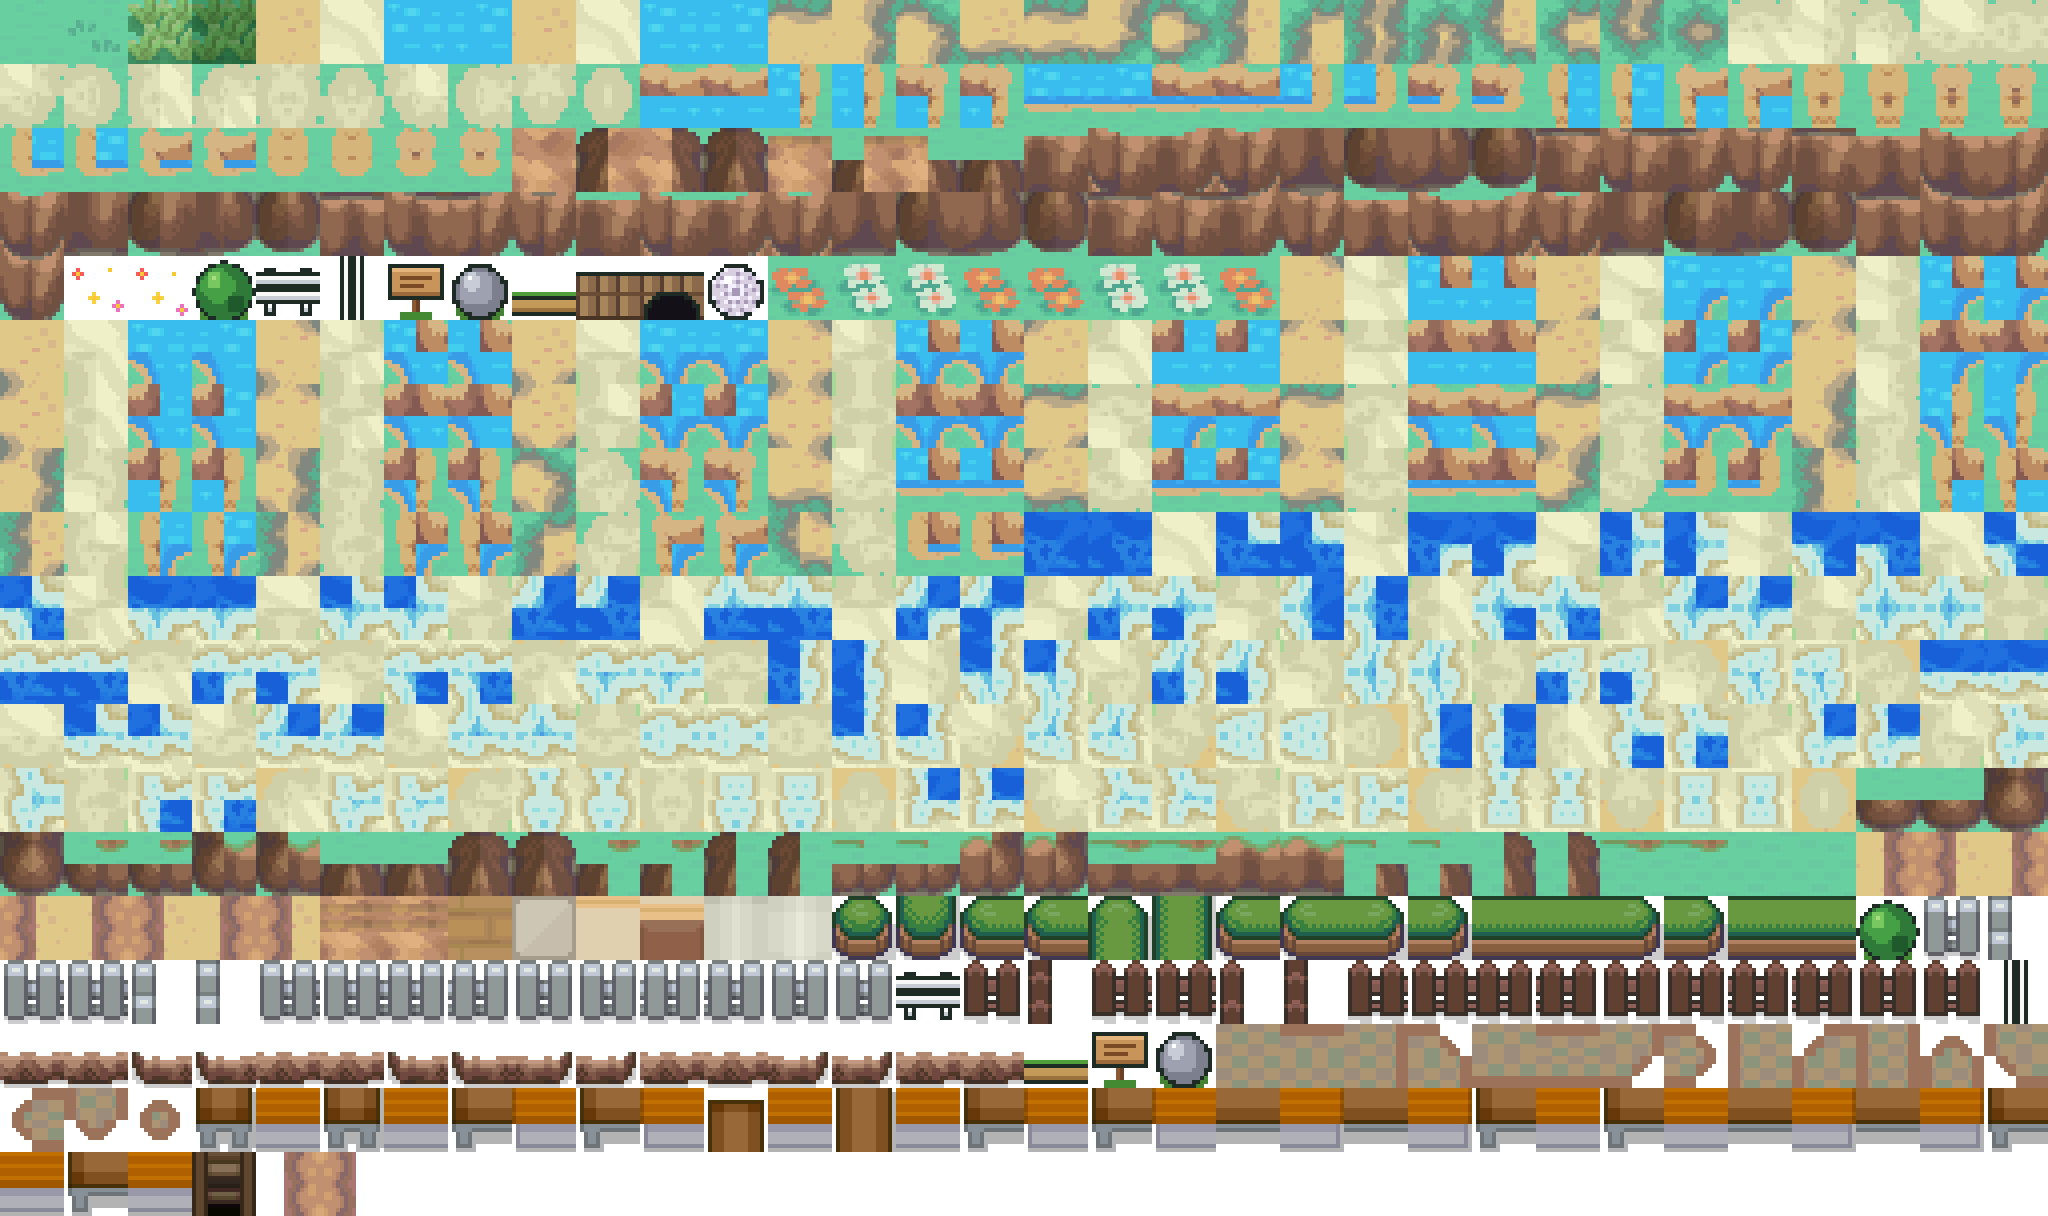
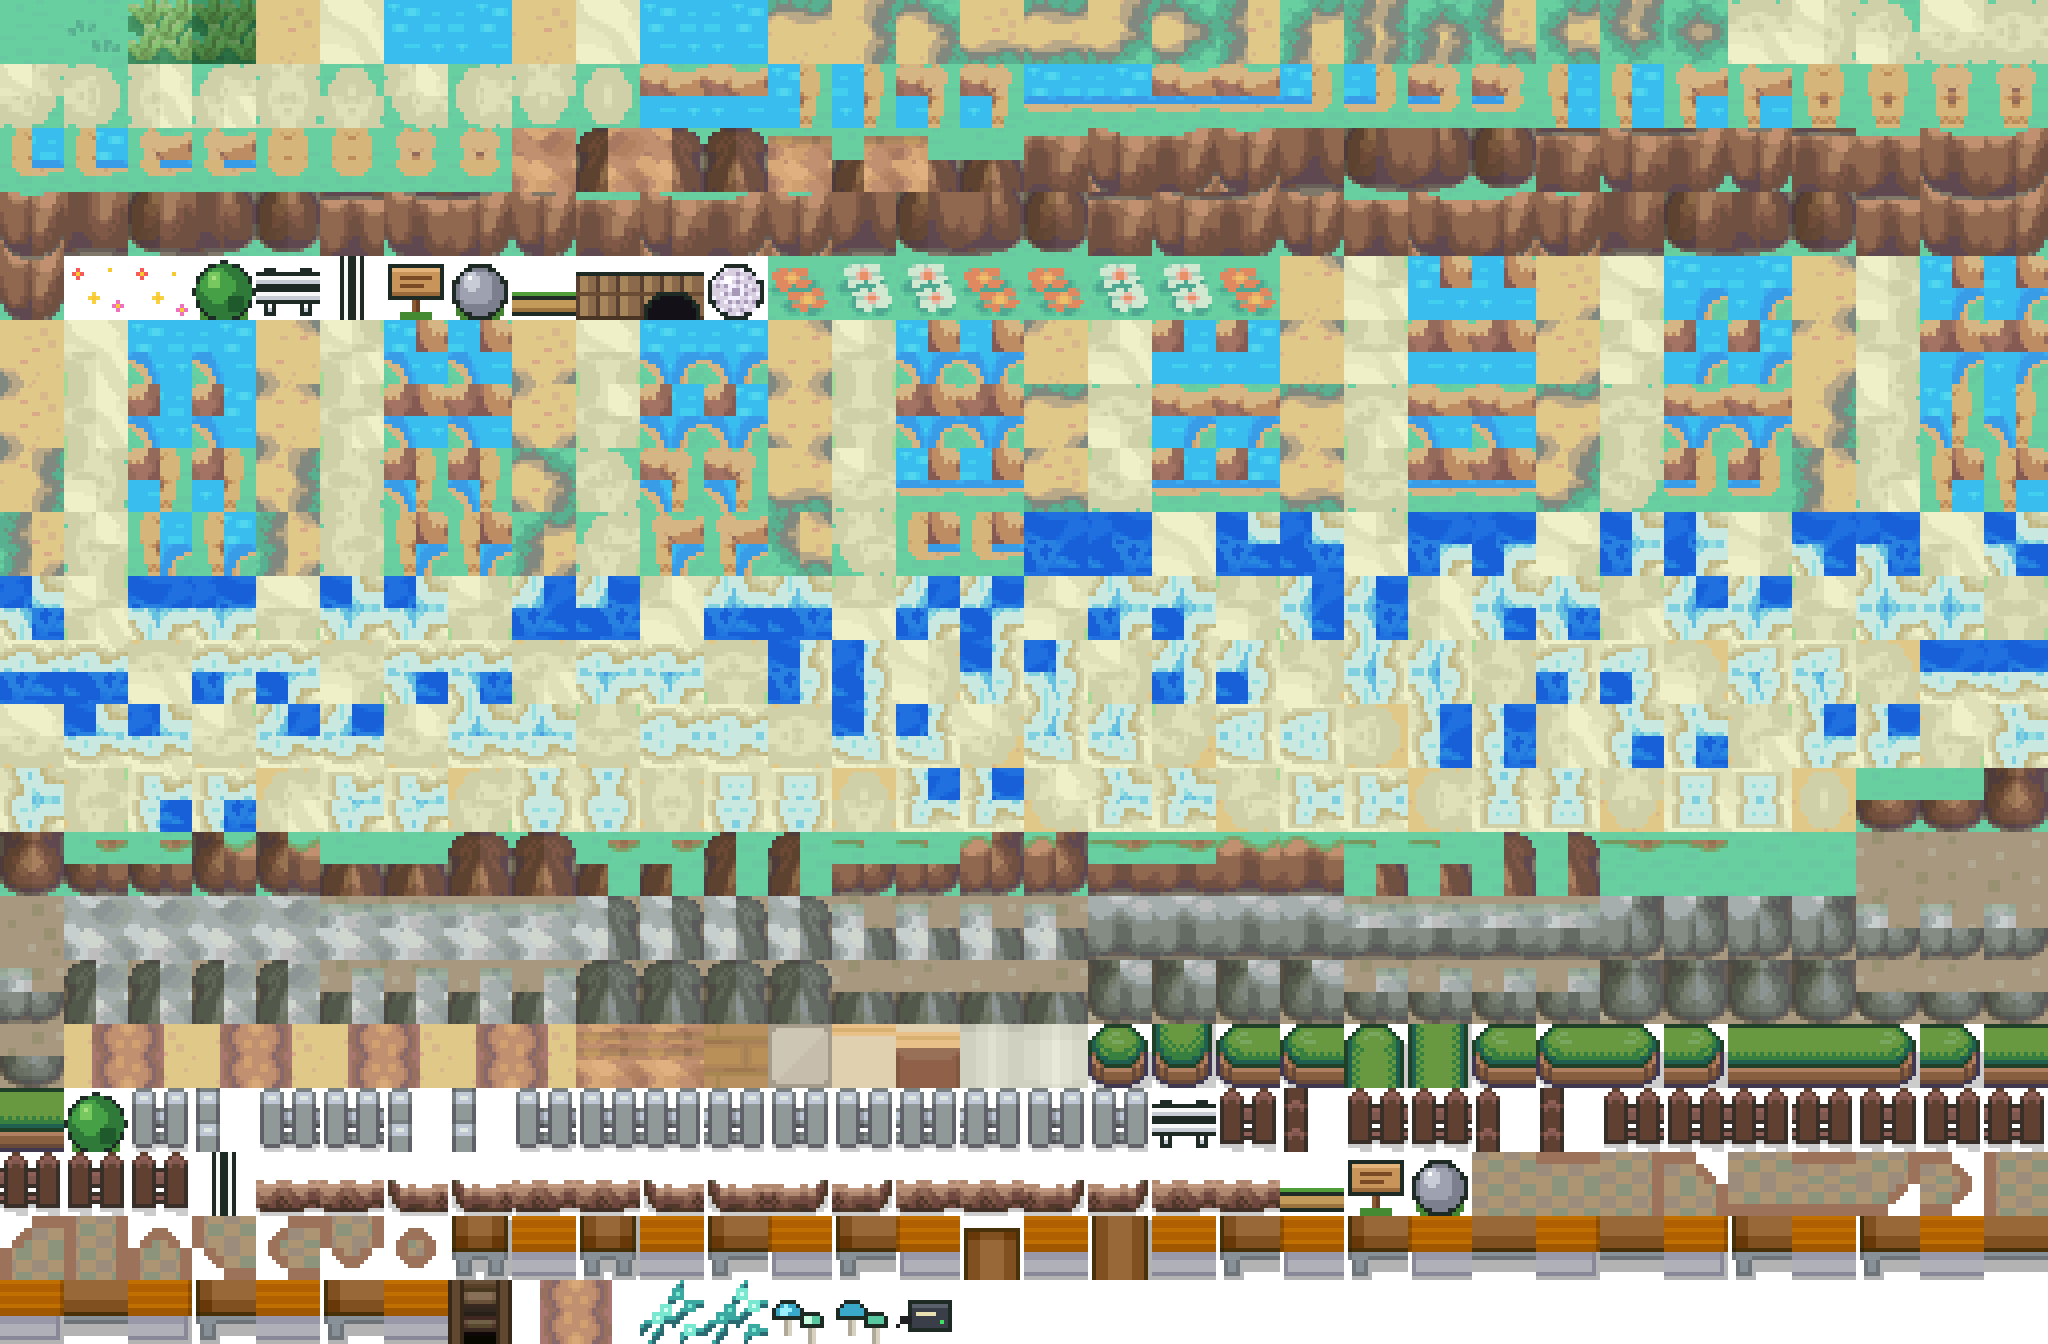
V2: cuevas con suelo de tierra y paredes de roca gris con relieve
Claude-Session: https://claude.ai/code/session_018v1fAZrQHSEnPWssP3zxe4

diff --git a/src/game/scenes/overworld.ts b/src/game/scenes/overworld.ts
@@ -481,6 +481,13 @@ export class Overworld implements Scene {
         else if (tileAt(this.map, x + 1, y).startsWith("camino")) t = "lateral_o";
       }
       if (V2 && t === "escalon" && [x - 1, x + 1].some((xx) => tileAt(this.map, xx, y) === "acantilado")) t = "escalon_cesped";
+      // V2: paredes de cueva con relieve: la variante dice qué lados dan a suelo (no a otra pared)
+      if (V2 && t === "pared_cueva") {
+        const pared = (xx: number, yy: number) => xx < 0 || yy < 0 || xx >= this.map.w || yy >= this.map.h || tileAt(this.map, xx, yy) === "pared_cueva";
+        const m = (pared(x, y - 1) ? 0 : 1) | (pared(x + 1, y) ? 0 : 2) | (pared(x, y + 1) ? 0 : 4) | (pared(x - 1, y) ? 0 : 8);
+        const i = TERR.index[`pared_cueva~${m}#${(x % 2) + (y % 2) * 2}`];
+        if (i !== undefined) { g.terr(i, x * 16 - cx, y * 16 - cy); continue; }
+      }
       const vec = this.vecinos(x, y, t);
       g.tile(t, x * 16 - cx, y * 16 - cy, x, y, suelo, vec, this.map.env, t === "acantilado" || t === "cueva_entrada" ? 0 : esquinas(this.map, x, y));
       // V2: el canto de una terraza de montaña que cae al río

diff --git a/tools/art/tileset_v2.py b/tools/art/tileset_v2.py
@@ -118,7 +118,7 @@ def a_cesped_v2(t):
     o[verde, :3] = (f[verde] - 8).clip(0, 255).astype(np.uint8)
     return o
 
-def relieve(h, r, c0, mask, cesped=False):
+def relieve(h, r, c0, mask, cesped=False, fondo=None):
     """Casilla de una plantilla de relieve de 4×4 (filas r..r+3, columnas c0..c0+3): borde superior en la
     mitad baja de la fila r, laterales en r+1..r+2 y la cara en r+3. mask: 1 N, 2 E, 4 S, 8 O distintos."""
     n, e, s_, w = mask & 1, mask & 2, mask & 4, mask & 8
@@ -132,7 +132,7 @@ def relieve(h, r, c0, mask, cesped=False):
             src = c16(h, x, y)
             o[qy * 8:qy * 8 + 8, qx * 8:qx * 8 + 8] = src[qy * 8:qy * 8 + 8, qx * 8:qx * 8 + 8]
     o = a_cesped_v2(o)
-    return sobre(HIERBA, o)
+    return sobre(HIERBA if fondo is None else fondo, o)
 
 def pared(y, e, w, alt):
     """Casilla de pared de la montaña (16 px desde la fila y de la lámina terreno2, columnas 0-3)."""
@@ -352,6 +352,12 @@ def main():
                 pon(f"monte_cara2_{e}{w}", sobre(HIERBA, pared(8854, e, w, q % 2)), q)
                 pon(f"monte_cara1_{e}{w}", sobre(HIERBA, pared(8808, e, w, q % 2)), q)
     pon("monte_cueva", sobre(HIERBA, pared(8854, 0, 0, 0)))
+    # cuevas: suelo de tierra de cueva (bloque 2×2 de las filas 113-114, columnas 4-5) y paredes de roca gris
+    # con relieve (plantilla de las filas 378-381): «pared_cueva~m», m = lados que dan a suelo (1 N, 2 E, 4 S, 8 O)
+    suelo_c = [t16(T2, 113 + q // 2, 4 + q % 2) for q in range(4)]
+    for q in range(4): pon("suelo_cueva", suelo_c[q], q)
+    for m in range(16):
+        for q in range(4): pon(f"pared_cueva~{m}", relieve(T2, 378, 0, m, fondo=suelo_c[q]), q)
     # laterales de las terrazas (anillo de borde de meseta, filas 545-546): el canto de la terraza que cae al
     # terreno de al lado; «lateral_e» con la terraza al oeste (canto a la derecha) y «lateral_o» al revés
     tierra = t16(EXT, 1, 1)
@@ -392,6 +398,16 @@ def main():
         objetos[f"obj:mostrador~{k}"] = x4(pieza_lineal(k, **mostr))
     objetos["obj:escaleras"] = x4(t16(INT, 505, 1))
     objetos.update(objetos_extra)
+    # setas e hifas de las cuevas (tiles de la V1) sin su suelo viejo, para ponerlas sobre el suelo nuevo
+    tm = json.load(open(A1 / "tiles.json")); tv = np.array(Image.open(A1 / "tiles.png").convert("RGBA"))
+    def tv16(n): i = tm[n]; return tv[(i // 16) * 16:(i // 16) * 16 + 16, (i % 16) * 16:(i % 16) * 16 + 16].copy()
+    suelo_viejo = {tuple(p) for p in tv16("suelo_cueva").reshape(-1, 4)}
+    for n in ("hifas0", "hifas1", "seta0", "seta1", "disco_duro"):
+        t = tv16(n)
+        for yy in range(16):
+            for xx in range(16):
+                if tuple(t[yy, xx]) in suelo_viejo: t[yy, xx, 3] = 0
+        objetos[f"obj:{n}"] = x4(t)
 
     # ---- atlas de terreno
     nombres = list(celdas) + list(objetos)

diff --git a/PROGRESO.md b/PROGRESO.md
@@ -188,5 +188,7 @@ Roadmap: 7 fases (0–6). Cada fase termina en una puerta.
 
 - V2, laterales de la montaña: los bordes de las terrazas usan el canto del anillo de meseta (terreno2, filas 545-546): junto a los árboles (en lugar de la valla) y junto al río, que queda encajado entre cantos sin orilla (`esTerraza` en builder.ts). Da la sensación de que cada terraza está más alta que lo que tiene al lado.
 
+- V2, cuevas: suelo de tierra de cueva (terreno2, filas 113-114, columnas 4-5, bloque 2×2) y paredes de roca gris con relieve (plantilla de las filas 378-381: canto, laterales y cara según qué lados dan a suelo, «pared_cueva~m»); setas, hifas y el disco duro de la V1 se dibujan sin su suelo viejo encima del nuevo. Afecta a Monte Micelio, Cueva Anaeróbica, Túnel Endospórico, Fosa Abisal y el suelo del Gimnasio Gram.
+
 ## Siguiente tarea
 Pendiente del GDD: Modo Torneo y mochila bloqueada en Difícil, objetos equipados, variocolor y RandomLocke. Posibles mejoras: más diálogos y misiones secundarias, mejorar la calidad de los sprites (Microos diseñados por especie, retratos limpios, pasos), música y efectos.
